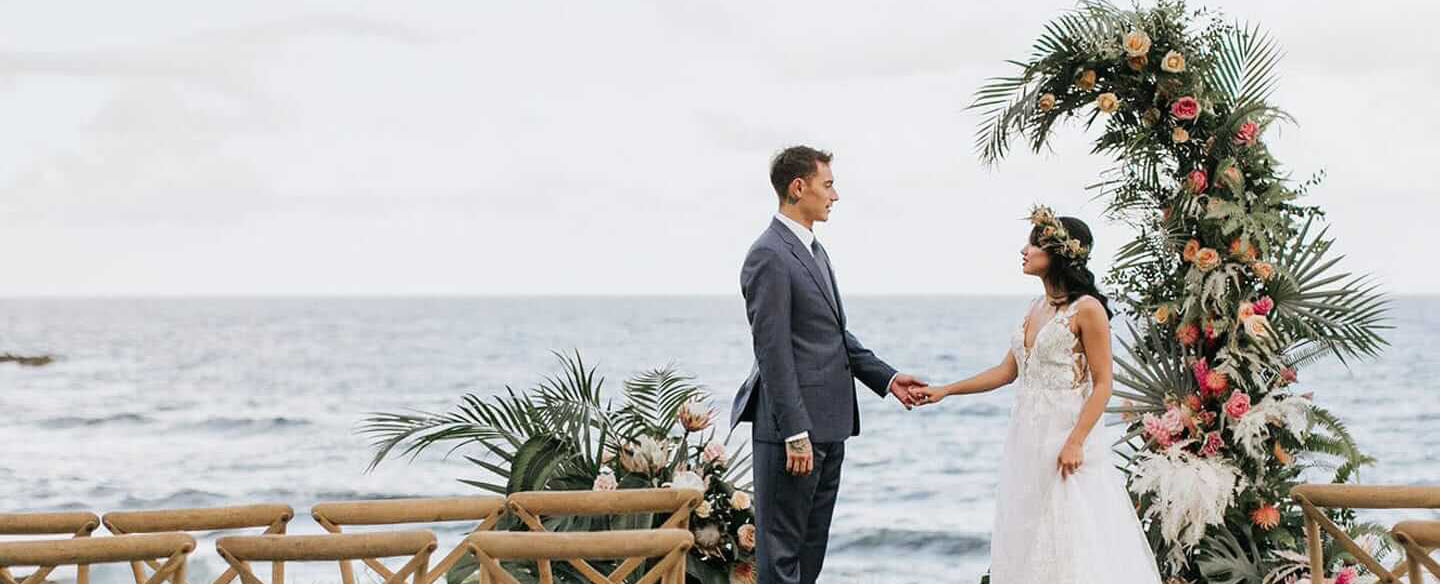
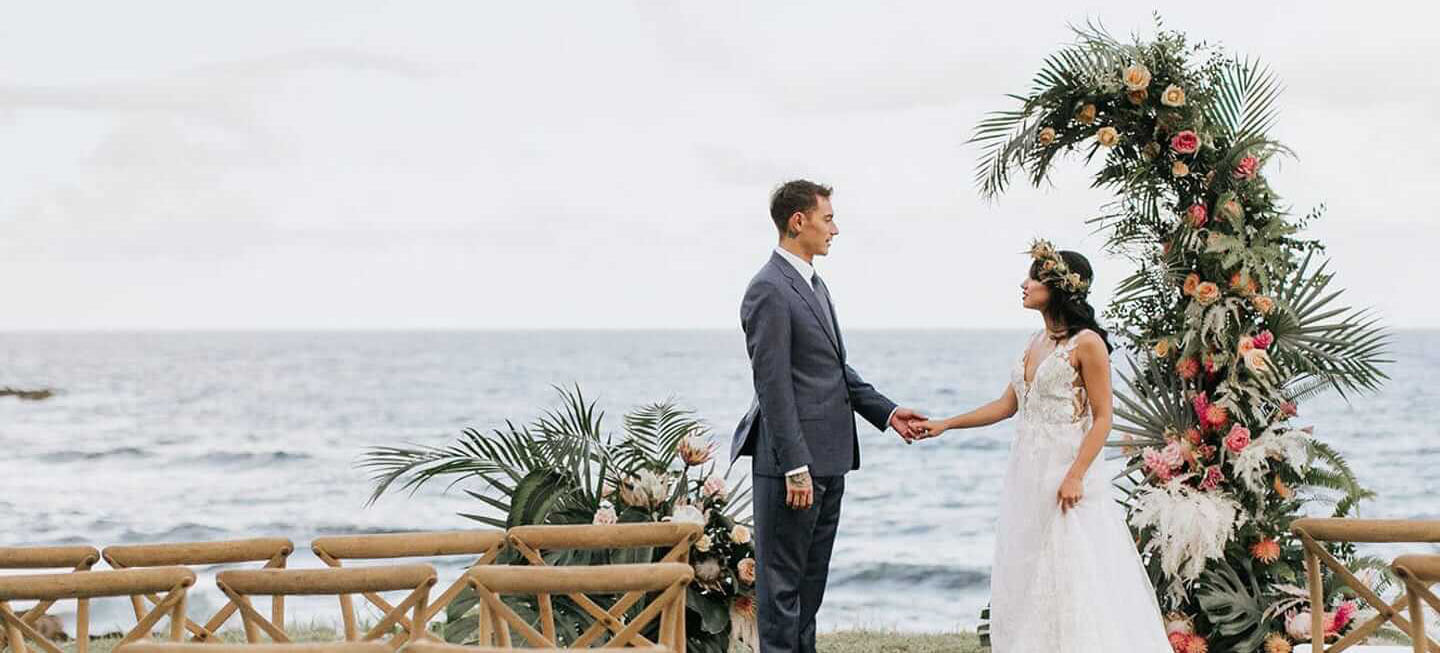
packages area

diff --git a/index.html b/index.html
@@ -6,10 +6,10 @@
     <link rel="shortcut icon" type="img/png" href="icon/fav.png">
     <!-- fonts -->
     <link href="https://fonts.googleapis.com/css2?family=Poppins:wght@400;500;700&display=swap" rel="stylesheet">
-    <meta http-equiv="X-UA-Compatible" content="IE=edge">
-    <meta name="viewport" content="width=device-width, initial-scale=1.0">
     <title>free wedding</title>
-    <!-- css link -->
+    <!-- fonts awsome -->
+    <link rel="stylesheet" href="https://use.fontawesome.com/releases/v5.15.4/css/all.css" integrity="sha384-DyZ88mC6Up2uqS4h/KRgHuoeGwBcD4Ng9SiP4dIRy0EXTlnuz47vAwmeGwVChigm" crossorigin="anonymous">
+     <!-- custom css -->
     <link rel="stylesheet" href="style.css">
     <!-- bootstrap stylesheet -->
     <link href="https://cdn.jsdelivr.net/npm/bootstrap@5.1.3/dist/css/bootstrap.min.css" rel="stylesheet" integrity="sha384-1BmE4kWBq78iYhFldvKuhfTAU6auU8tT94WrHftjDbrCEXSU1oBoqyl2QvZ6jIW3" crossorigin="anonymous">
@@ -21,13 +21,13 @@
     ---------------->
     <header>
         <nav class="navbar navbar-expand-lg navbar-light bg-light">
-            <div class="container my-4">
+            <div class="container my-4 ">
               <a class="navbar-brand fs-2 fw-bold" href="#">A Free Wedding Website Made for You</a>
               <button class="navbar-toggler" type="button" data-bs-toggle="collapse" data-bs-target="#navbarSupportedContent" aria-controls="navbarSupportedContent" aria-expanded="false" aria-label="Toggle navigation">
                 <span class="navbar-toggler-icon"></span>
               </button>
               <div class="collapse navbar-collapse" id="navbarSupportedContent">
-                <ul class="navbar-nav ms-auto mb-2 mb-lg-0">
+                <ul class="navbar-nav ms-auto mb-2 mb-lg-0 fw-bold fs-5">
                   <li class="nav-item">
                     <a class="nav-link active" aria-current="page" href="#">Home</a>
                   </li>
@@ -68,7 +68,7 @@
             </div>
           </div>
           <div class="carousel-item">
-            <img src="image/02.png" class="d-block w-100" alt="...">
+            <img src="image/02.jpg" class="d-block w-100" alt="...">
             <div class="carousel-caption d-none d-md-block">
               <h1 class=" display-2 fw-bold">The perfect venue for your
                   <br>
@@ -99,10 +99,70 @@
         </button>
       </div>
 </section>
+<!-------- 
+  package items 
+--------------->
 <main>
-
+  <section class="text-center my-5">
+    <h2 class=" container display-3 fw-bold ">Our Packages</h2>
+  </section>
+  <section class="py-5 d-md-flex container">
+    <div class="text-left container" style="width: 18rem;">
+        <div class="card-body">
+            <h4 class="card-title">$300 <br> Business fair</h4>
+            <p class="card-text">For most businesses event
+                like book fair, craft fair.</p>
+            <p><i class="mx-1 far fa-check-circle"></i>limited space access</p>
+            <p><i class="mx-1 far fa-check-circle"></i>Secuirty facility</p>
+            <p><i class="mx-1 far fa-check-circle"></i>event support</p>
+            <p><i class="mx-1 far fa-check-circle"></i>Decoration design</p>
+            <p><i class="mx-1 far fa-check-circle"></i>Per day bill</p>
+            <a href="#" class="btn-color btn-lg px-5 d-grid rounded-pill">Choose plan</a>
+        </div>
+        </div>
+    <div class="text-left container" style="width: 18rem;">
+        <div class="card-body">
+            <h4 class="card-title">$300 <br> Business fair</h4>
+            <p class="card-text">For most businesses event
+                like book fair, craft fair.</p>
+            <p><i class="mx-1 far fa-check-circle"></i>limited space access</p>
+            <p><i class="mx-1 far fa-check-circle"></i>Secuirty facility</p>
+            <p><i class="mx-1 far fa-check-circle"></i>event support</p>
+            <p><i class="mx-1 far fa-check-circle"></i>Decoration design</p>
+            <p><i class="mx-1 far fa-check-circle"></i>Per day bill</p>
+            <a href="#" class="btn-color btn-lg px-5 d-grid rounded-pill">Choose plan</a>
+        </div>
+        </div>
+    <div class="text-left container" style="width: 18rem;">
+        <div class="card-body">
+            <h4 class="card-title">$300 <br> Business fair</h4>
+            <p class="card-text">For most businesses event
+                like book fair, craft fair.</p>
+            <p><i class="mx-1 far fa-check-circle"></i>limited space access</p>
+            <p><i class="mx-1 far fa-check-circle"></i>Secuirty facility</p>
+            <p><i class="mx-1 far fa-check-circle"></i>event support</p>
+            <p><i class="mx-1 far fa-check-circle"></i>Decoration design</p>
+            <p><i class="mx-1 far fa-check-circle"></i>Per day bill</p>
+            <a href="#" class="btn-color btn-lg px-5 d-grid rounded-pill">Choose plan</a>
+        </div>
+        </div>
+    <div class="text-left container" style="width: 18rem;">
+        <div class="card-body">
+            <h4 class="card-title">$300 <br> Business fair</h4>
+            <p class="card-text">For most businesses event
+                like book fair, craft fair.</p>
+            <p><i class="mx-1 far fa-check-circle"></i>limited space access</p>
+            <p><i class="mx-1 far fa-check-circle"></i>Secuirty facility</p>
+            <p><i class="mx-1 far fa-check-circle"></i>event support</p>
+            <p><i class="mx-1 far fa-check-circle"></i>Decoration design</p>
+            <p><i class="mx-1 far fa-check-circle"></i>Per day bill</p>
+            <a href="#" class="btn-color btn-lg px-5 d-grid rounded-pill">Choose plan</a>
+        </div>
+        </div>
+   </section>
+        
 </main>
-
+  
 <footer>
 
 </footer>

diff --git a/style.css b/style.css
@@ -7,7 +7,7 @@ body{
     font-family: 'Poppins', sans-serif;
 }
 
-.img{
-    width: 1440px;
-height: 584px;
+.btn-color{
+    background: #FEF5FA;
+    text-decoration: none;
 }
